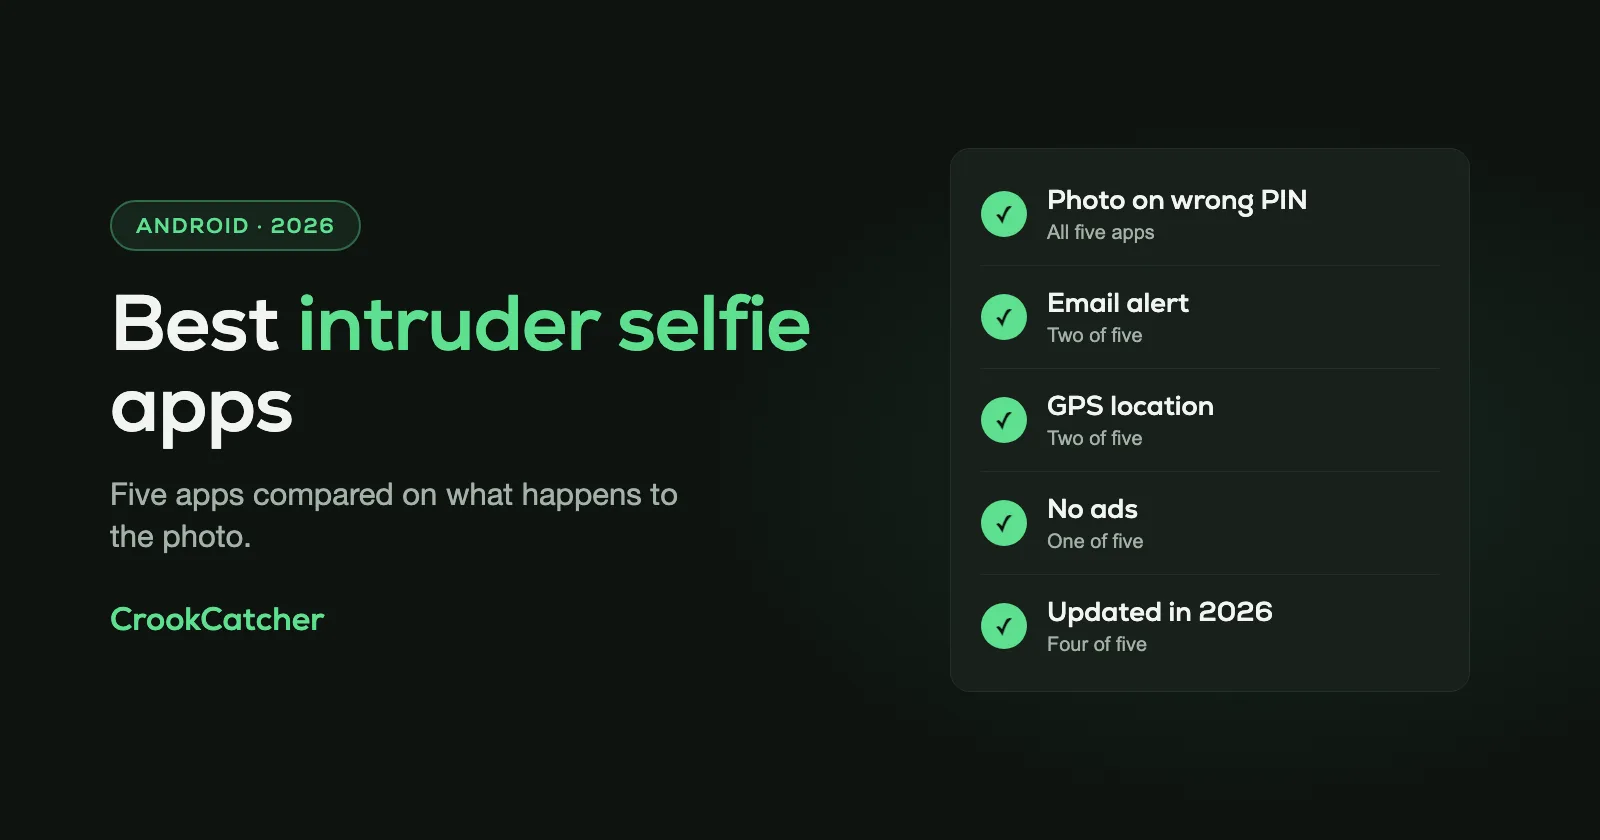
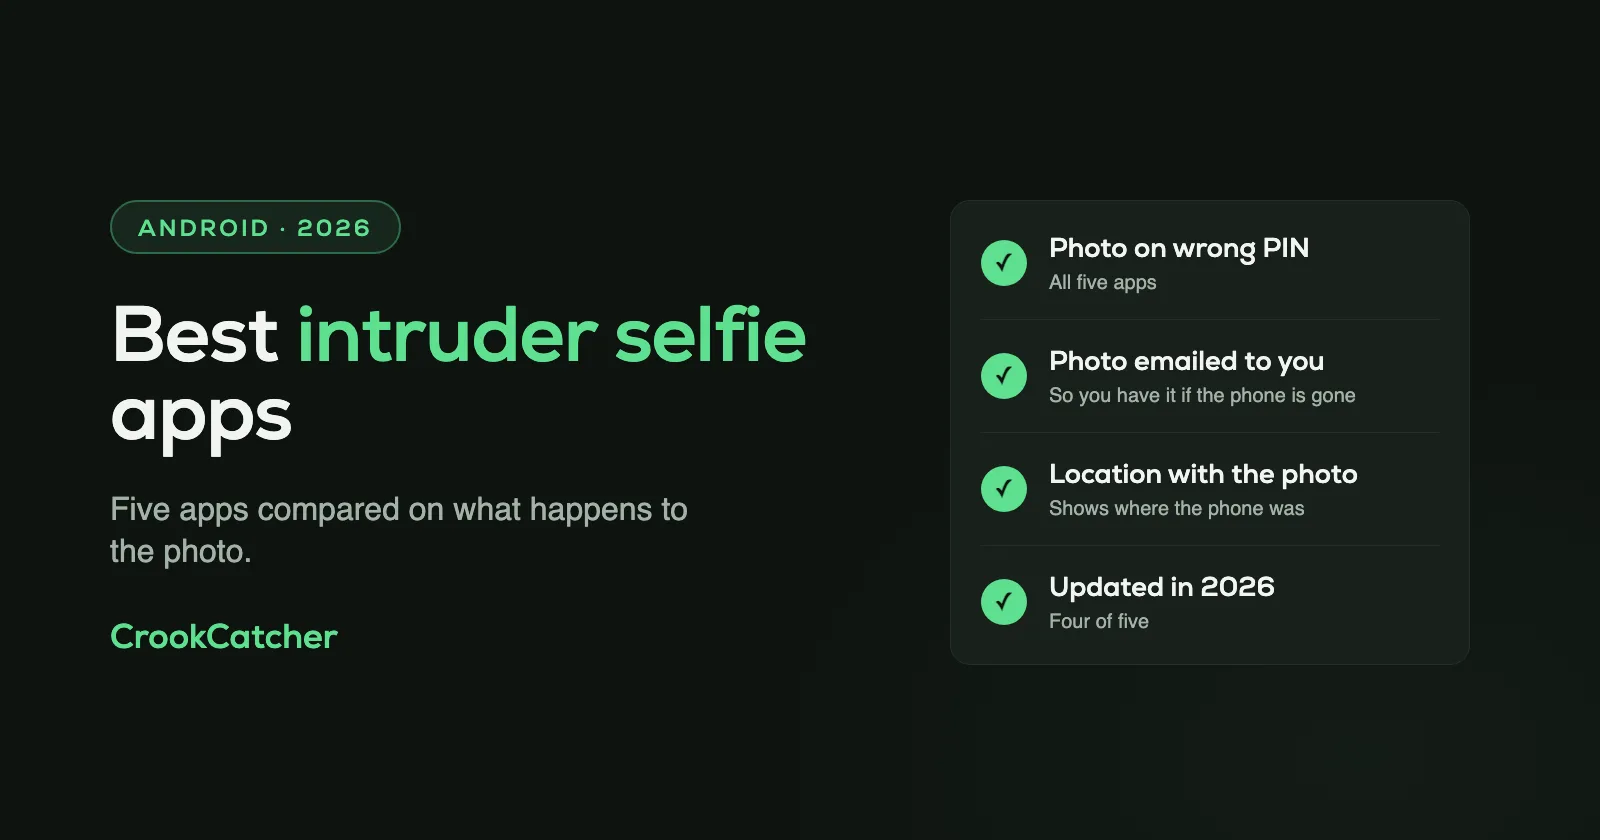
Rebuild the best intruder selfie apps guide; new titles for two low-click guides
best-intruder-selfie-apps-android, against the new guide quality rules:
- table only states what each Play listing says (no 'Not mentioned' cells, no Ads row)
- no disclaimer, no 'at home' / 'snooping' framing, no competitor recommendations
- 'Which one should you pick?' leads to CrookCatcher
- App lock described as a pattern lock on CrookCatcher itself; email offline caveat
- new header without the 'No ads' row; listing figures re-checked Nov 27, 2026

theft-detection-lock and block-power-menu: titles and descriptions rewritten
around the queries they show up for (5,613 and 7,858 impressions, under 1% CTR).

diff --git a/docs/guide-plan.md b/docs/guide-plan.md
@@ -101,11 +101,11 @@ People search for Google's and Samsung's own features. Explain them honestly, th
 
 | # | Guide title | Main search | Slug | Status |
 | --- | --- | --- | --- | --- |
-| 10 | Android Theft Detection Lock: What It Does and What It Misses | theft detection lock android | theft-detection-lock | Published 2026-11-14 |
+| 10 | Android Theft Detection Lock: What It Is, How to Turn It On or Off (2026) | theft detection lock android | theft-detection-lock | Published 2026-11-14 |
 | 11 | How to Find a Stolen Android Phone with Find Hub (2026) | how to find a stolen android phone | find-stolen-android-phone | Drafted Nov 14, 2026 (awaiting review); draft translations in pt, fr, es, de, ar, id, it, ja |
 | 12 | Samsung Find My Phone: How to Locate, Lock or Erase a Lost or Stolen Galaxy (2026) | samsung find my phone | samsung-find-stolen-phone | Drafted Nov 14, 2026 (awaiting review); draft translations in pt, fr, es, de, ar, id, it, ja |
 | 13 | Android Phone Stolen in the US? What to Do in the First 10 Minutes | android phone stolen what to do | phone-stolen-us | Planned |
-| 14 | How to Stop Power Off and Airplane Mode From the Lock Screen on Android (2026) | disable airplane mode from lock screen | block-power-menu | Published (retitled Nov 13, 2026) |
+| 14 | How to Disable Airplane Mode and Power Off on the Android Lock Screen (2026) | disable airplane mode from lock screen | block-power-menu | Published (retitled Nov 13, 2026) |
 | 15 | How to Stop Thieves from Turning On Airplane Mode | disable airplane mode lock screen | — | Merged into #14 |
 | 16 | 5 Android Anti-Theft Settings to Turn On Today (2026) | android anti theft settings | top_five_settings | Published (rewritten Oct 23, 2026) |
 | 17 | How to Block a Stolen Phone's IMEI in the US | block stolen phone imei | block-stolen-phone-imei-us | On hold (search volume, Nov 14, 2026) |
